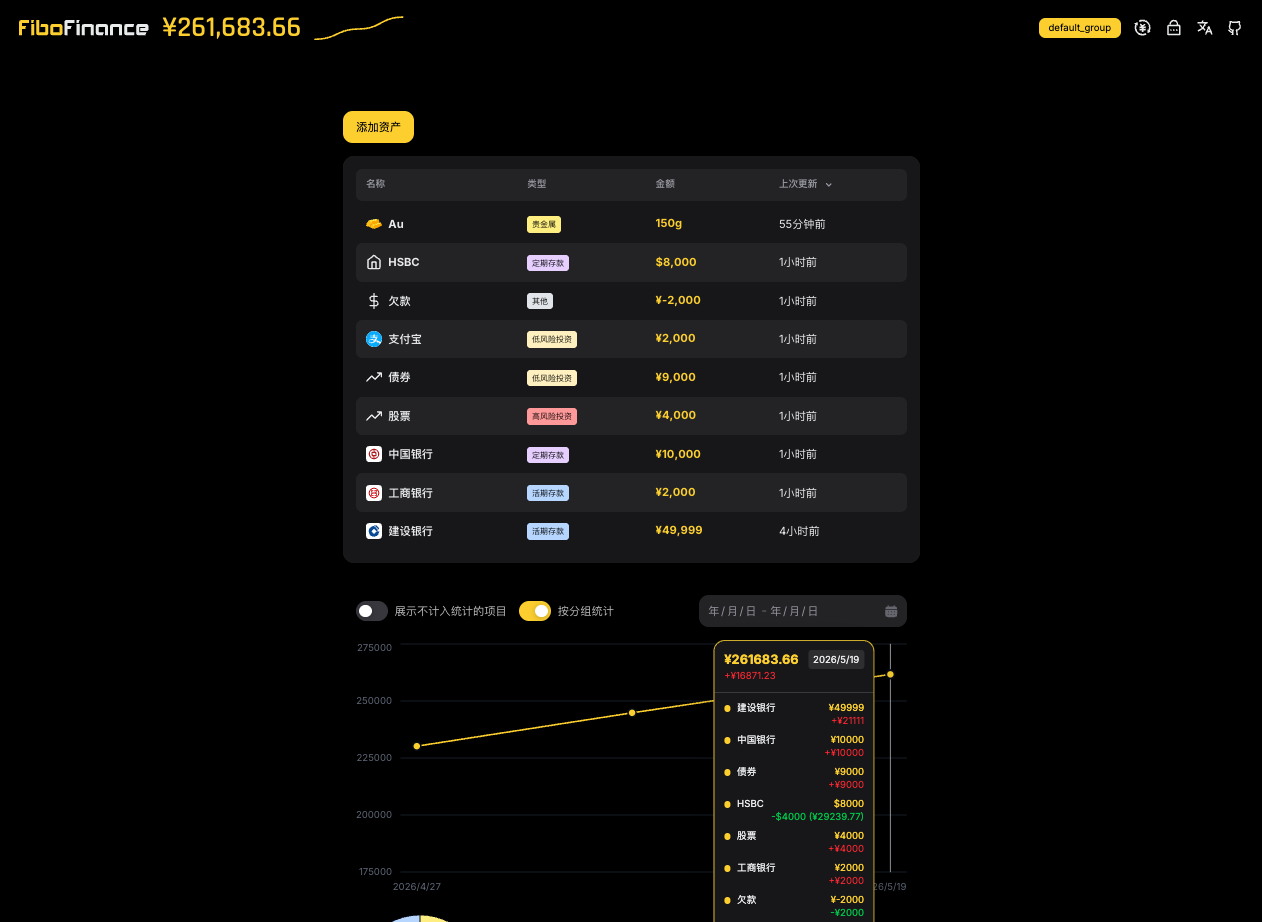
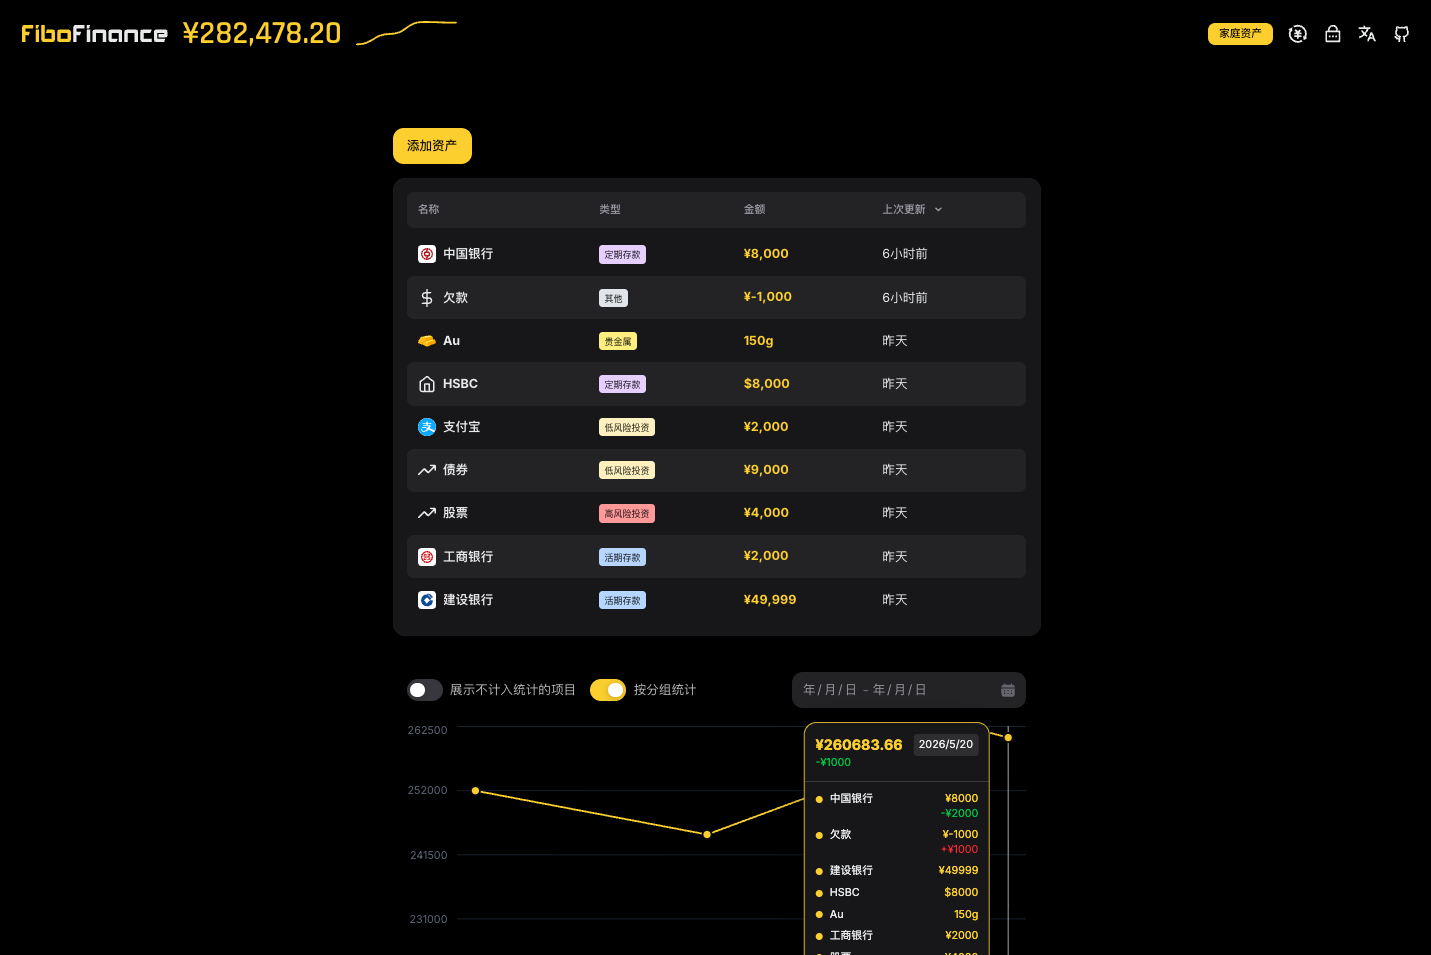
update readme

diff --git a/README.md b/README.md
@@ -26,10 +26,10 @@ https://fibofinance.cn
 ## 亮点
 
 - 便捷部署、数据安全、密码保护
-- 支持分组管理
-- 多币种支持、自定义汇率（白银、黄金等按克记录，自动转换为人民币）
-- 支持趋势图、配置饼图、灵活对比资产变化
-- 支持 AI 分析
+- 个人/家庭财产分组管理、资产不混淆
+- 多币种支持、自定义汇率（白银、黄金等按克记录）
+- 资产趋势图、灵活对比资产变化
+- 配置 AI Key 后可提供资产配比建议
 
 ## 部署
 
